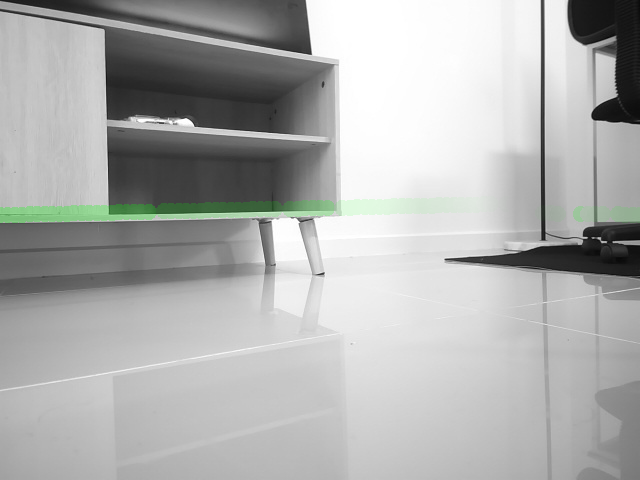
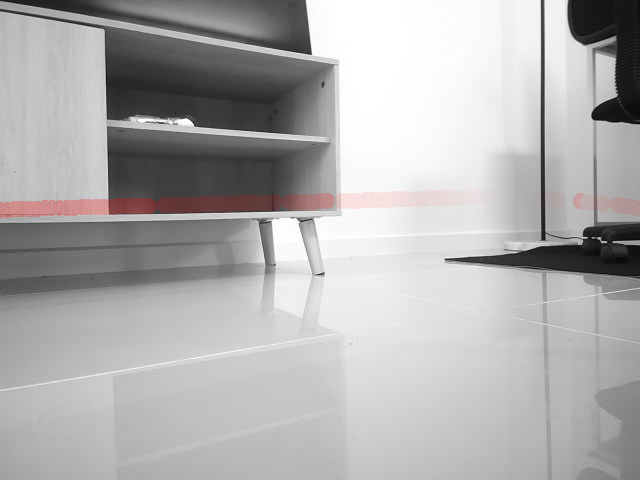
Corrects interpolation to the vanishing point

Changed region(s): [[0.0, 0.375, 0.5938, 0.4688], [0.9688, 0.4062, 1.0, 0.4688], [0.875, 0.4062, 0.9062, 0.4688]]

diff --git a/generate.py b/generate.py
@@ -18,7 +18,7 @@ CAMERA_VERTICAL_CENTREPOINT_IN_FRAME_PX = CAMERA_VERTICAL_RESOLUTION_PX / 2
 CAMERA_VERTICAL_CENTREPOINT_IN_FRAME_MM = 130 
 
 # LiDAR is mounted above and behind the camera
-LIDAR_VERTICAL_OFFSET_MM = 45
+LIDAR_VERTICAL_OFFSET_MM = 55
 LIDAR_DISTANCE_OFFSET_MM = -120
 
 # Approximates the number of pixels per mm
@@ -36,6 +36,17 @@ MAX_HORIZONTAL_FOV = CAMERA_HORIZONTAL_FOV_DEGREES / 2
 
 VANISHING_POINT_Y = CAMERA_VERTICAL_RESOLUTION_PX - (CAMERA_VERTICAL_CENTREPOINT_IN_FRAME_MM * CAMERA_FOCAL_LENGTH_MM / VERTICAL_PX_PER_MM) - (LIDAR_VERTICAL_OFFSET_MM / VERTICAL_PX_PER_MM)
 
+def depth_to_color(value):
+    """Convert a value between 0 and 1 to a color between blue (0) and red (1)."""
+    if not (0 <= value <= 1):
+        raise ValueError("Value should be between 0 and 1")
+
+    # Interpolate between blue (0, 0, 255) and red (255, 0, 0)
+    r = int(255 * value)
+    g = 0  # green remains constant at 0
+    b = int(255 * (1 - value))
+
+    return (r, g, b)
 
 def process_data_in_fov(data):
     data_in_fov = []
@@ -43,7 +54,7 @@ def process_data_in_fov(data):
 
     for angle, distance in data.items():
         if (float(angle) >= MIN_HORIZONTAL_FOV or float(angle) <= MAX_HORIZONTAL_FOV) and distance != 0.0:
-            distance = (distance + LIDAR_DISTANCE_OFFSET_MM) * math.cos(math.radians(float(angle)))
+            distance = int((distance + LIDAR_DISTANCE_OFFSET_MM) * math.cos(math.radians(float(angle))))
         
             if float(angle) >= MIN_HORIZONTAL_FOV:
                 angle_key = -(360 - float(angle))
@@ -61,6 +72,17 @@ def process_data_in_fov(data):
 
     return data, maximum_distance_measurement, vanishing_point_x, vanishing_point_x_angle_key
 
+def calculate_slope_point_y_spacing(points, vanishing_point_angle):
+    num_points_positive = 0
+    num_points_negative = 0
+
+    for angle, distance in points:
+        if angle <= vanishing_point_angle:
+            num_points_positive += 1
+        elif angle > vanishing_point_angle:
+            num_points_negative += 1
+
+    return num_points_positive, num_points_negative
 
 if __name__ == '__main__':
     parser = argparse.ArgumentParser(description='Depth Map Overlay Generator')
@@ -84,22 +106,32 @@ if __name__ == '__main__':
 
         draw = ImageDraw.Draw(overlay)
 
-        num_points = len(data_in_fov)
+        num_points_positive, num_points_negative = calculate_slope_point_y_spacing(data_in_fov, vanishing_point_x_angle_key)
 
-        for i in range(num_points):
-            t = i / num_points
-            if data_in_fov[i][0] <= vanishing_point_x_angle_key:
-                x = (CAMERA_HORIZONTAL_RESOLUTION_PX / 2) + (HORIZONTAL_PX_PER_DEGREES_FOV * data_in_fov[i][0])
+        i = 0
+        for angle, distance in data_in_fov:
+            if angle <= vanishing_point_x_angle_key:
+                t = i / num_points_positive
+                x = (CAMERA_HORIZONTAL_RESOLUTION_PX / 2) + (HORIZONTAL_PX_PER_DEGREES_FOV * angle)
                 y = int(MARKER_Y + t * (VANISHING_POINT_Y - MARKER_Y))
-            elif data_in_fov[i][0] > vanishing_point_x_angle_key:
-                x = (CAMERA_HORIZONTAL_RESOLUTION_PX / 2) + (HORIZONTAL_PX_PER_DEGREES_FOV * data_in_fov[i][0])
+
+                point_opacity = int((1 - (distance / maximum_distance_measurement)) * 100)
+                draw.circle((x,y), HORIZONTAL_PX_PER_DEGREES_FOV, (255, 0, 0, point_opacity))
+
+                i += 1
+
+        i = 0
+        for angle, distance in data_in_fov:
+            if angle > vanishing_point_x_angle_key:
+                t = i / num_points_negative
+                x = (CAMERA_HORIZONTAL_RESOLUTION_PX / 2) + (HORIZONTAL_PX_PER_DEGREES_FOV * angle)
                 y = int(VANISHING_POINT_Y + t * (MARKER_Y - VANISHING_POINT_Y))
+
+                point_opacity = int((1 - (distance / maximum_distance_measurement)) * 100)
+                draw.circle((x,y), HORIZONTAL_PX_PER_DEGREES_FOV, (255, 0, 0, point_opacity))
+
+                i += 1
         
-            
-            point_opacity = int((1 - (data_in_fov[i][1] / maximum_distance_measurement)) * 100)
-
-            draw.circle((x,y), HORIZONTAL_PX_PER_DEGREES_FOV, (0, 255, 0, point_opacity))
-
         # Uncomment the following 3 lines to help with debugging
         # draw.circle((VANISHING_POINT_X, VANISHING_POINT_Y), HORIZONTAL_PX_PER_DEGREES_FOV, (255, 0, 0, 100))
         # draw.line((0, MARKER_Y, VANISHING_POINT_X, VANISHING_POINT_Y), fill='red', width=1)

diff --git a/README.md b/README.md
@@ -17,8 +17,8 @@ pipenv install --dev
 - A Python dictionary of raw LiDAR distance measurements.
 
 ### Outputs (output/)
-- combined.jpg - Contains a grayscale version of the scene image with the relative distance measurements overlayed as green dots. The more solid a green dot is the closer that point is to the camera.
-- points_only.jpg - Contains only the green dot points used in the combined image.
+- combined.jpg - Contains a grayscale version of the scene image with the relative distance measurements overlayed as red dots. The more solid a red dot is the closer that point is to the camera.
+- points_only.jpg - Contains only the red dot points used in the combined image.
 
 ### Capture image from webcam (optional)
 ```
@@ -48,6 +48,9 @@ Adjust in ```generate.py```.
 - The format and parsing of the LiDAR data file is not ideal (working with data generated for another project).
 
 ## Changelog
-### 21 October 2024
+#### 22 October 2024
+- Correct interpolation to the vanishing point.
+- Change dot colour to red.
+#### 21 October 2024
 - CAMERA_FOCAL_LENGTH_MM setting is now required (changed from reserved).
 - Depth map overlay is more tightly fitting the scene. No longer just a straight line across the scene (using the camera's focal length to approximate the vanishing point).
